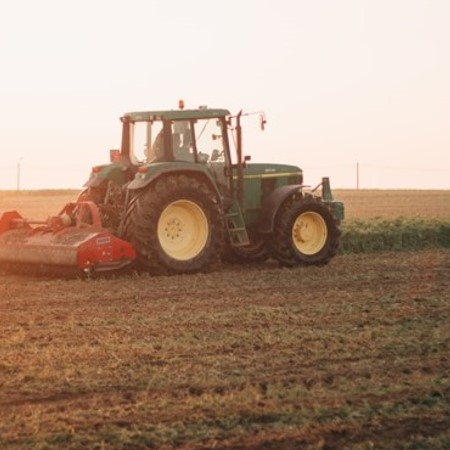
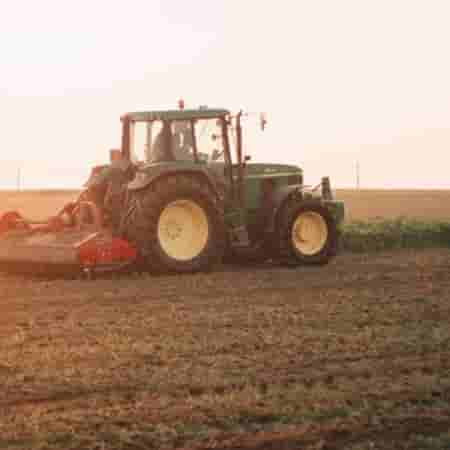
* Compresión de imágenes * Corrección en submódulo * Correcciones mínimas

diff --git a/css/style.css b/css/style.css
@@ -1514,74 +1514,74 @@ section {
     background: inherit;
 }
 
-    #footer .footer-top .footer-contact {
-        margin-bottom: 30px;
+#footer .footer-top .footer-contact {
+    margin-bottom: 30px;
+}
+
+#footer .footer-top .footer-contact h3 {
+    font-size: 28px;
+    margin: 0 0 10px 0;
+    padding: 2px 0 2px 0;
+    line-height: 1;
+    text-transform: uppercase;
+    font-weight: 600;
+    color: var(--bg-border);
+}
+
+#footer .footer-top .footer-contact p {
+    font-size: 14px;
+    line-height: 24px;
+    margin-bottom: 0;
+    font-family: "Jost", sans-serif;
+    color: var(--fancampovida-creen-snow);
+}
+
+#footer .footer-top h4 {
+    font-size: 16px;
+    font-weight: bold;
+    color: var(--bg-border);
+    position: relative;
+    padding-bottom: 12px;
+}
+
+#footer .footer-top .footer-links {
+    margin-bottom: 30px;
+}
+
+#footer .footer-top .footer-links menu {
+    list-style: none;
+    padding: 0;
+    margin: 0;
+}
+
+#footer .footer-top .footer-links menu i {
+    padding-right: 2px;
+    color: #47b2e4;
+    font-size: 18px;
+    line-height: 1;
+}
+
+#footer .footer-top .footer-links menu li {
+    padding: 10px 0;
+    display: flex;
+    align-items: center;
+}
+
+    #footer .footer-top .footer-links menu li:first-child {
+        padding-top: 0;
     }
 
-        #footer .footer-top .footer-contact h3 {
-            font-size: 28px;
-            margin: 0 0 10px 0;
-            padding: 2px 0 2px 0;
-            line-height: 1;
-            text-transform: uppercase;
-            font-weight: 600;
-            color: var(--bg-border);
-        }
+#footer .footer-top .footer-links menu a {
+    color: var(--fancampovida-creen-snow);
+    transition: 0.3s;
+    display: inline-block;
+    line-height: 1;
+}
 
-        #footer .footer-top .footer-contact p {
-            font-size: 14px;
-            line-height: 24px;
-            margin-bottom: 0;
-            font-family: "Jost", sans-serif;
-            color: var(--fancampovida-creen-snow);
-        }
-
-    #footer .footer-top h4 {
-        font-size: 16px;
-        font-weight: bold;
-        color: var(--bg-border);
-        position: relative;
-        padding-bottom: 12px;
-    }
-
-    #footer .footer-top .footer-links {
-        margin-bottom: 30px;
-    }
-
-        #footer .footer-top .footer-links menu {
-            list-style: none;
-            padding: 0;
-            margin: 0;
-        }
-
-            #footer .footer-top .footer-links menu i {
-                padding-right: 2px;
-                color: #47b2e4;
-                font-size: 18px;
-                line-height: 1;
-            }
-
-            #footer .footer-top .footer-links menu li {
-                padding: 10px 0;
-                display: flex;
-                align-items: center;
-            }
-
-                #footer .footer-top .footer-links menu li:first-child {
-                    padding-top: 0;
-                }
-
-            #footer .footer-top .footer-links menu a {
-                color: var(--fancampovida-creen-snow);
-                transition: 0.3s;
-                display: inline-block;
-                line-height: 1;
-            }
-
-                #footer .footer-top .footer-links menu a:hover {
-                    text-decoration: none;
-                    color: #47b2e4;
-                }
+#footer .footer-top .footer-links menu a:hover {
+    text-decoration: none;
+    color: #47b2e4;
+}
 
 #footer .footer-bottom .social-links a {
     font-size: 18px;

diff --git a/index.html b/index.html
@@ -94,17 +94,7 @@
             <div class="section-title">
                 <h2 style="text-transform: capitalize">Nuestros <span style="color: var(--fancampovida-creen-snow)">seguros</span></h2>
             </div>
-            <div class="row g-4" xo-source="#menu" xo-stylesheet="seguros-tiles.xslt">
-                <div class="col-xs-6 col-sm-6 col-md-3">
-                    <div class="position-relative banner-2">
-                        <img src="assets/img/multi1.jpg" class="img-fluid rounded" alt="">
-                        <div class="text-center banner-content-2">
-                            <h4 class="mb-2 fw-bold text-white">Seguro</h4>
-                            <p class="mb-2 h2 fw-bold text-white">Multirriesgo</p>
-                            <a href="#" class="btn btn-primary px-4">Ver más</a>
-                        </div>
-                    </div>
-                </div>
+            <div class="row g-4" xo-source="#menu" xo-stylesheet="seguros-tiles.xslt">                
             </div>
         </section>
 
